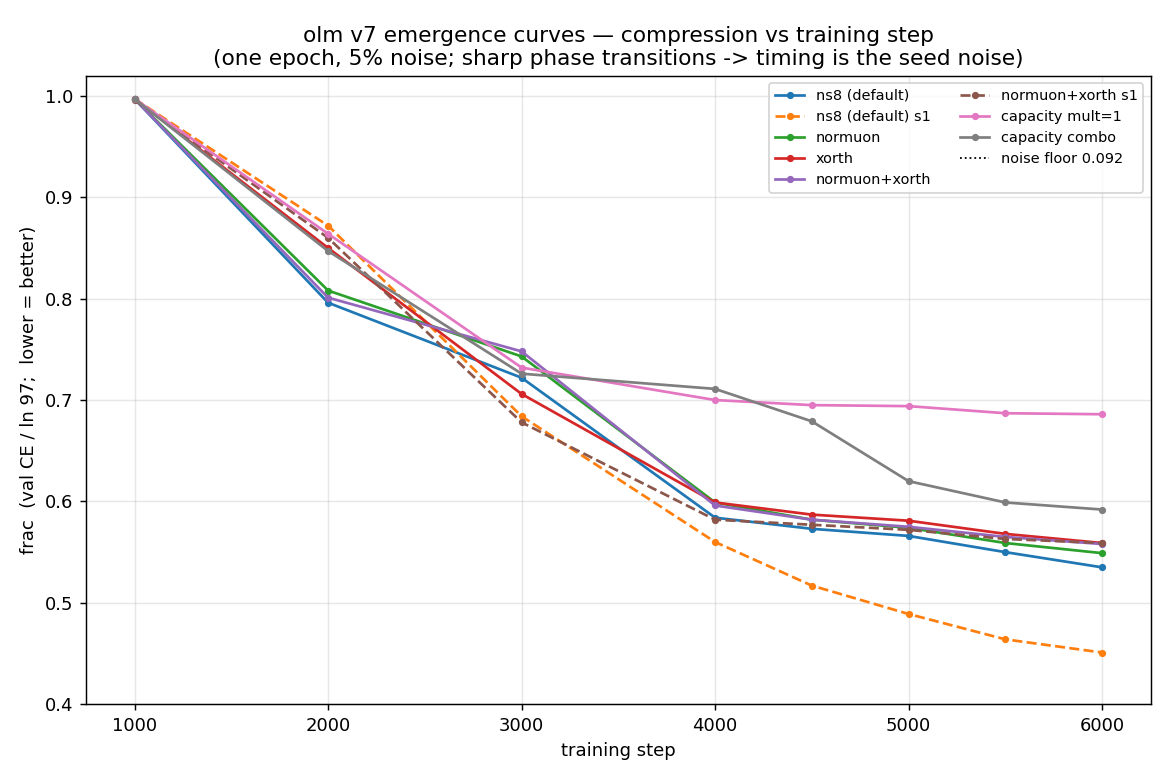
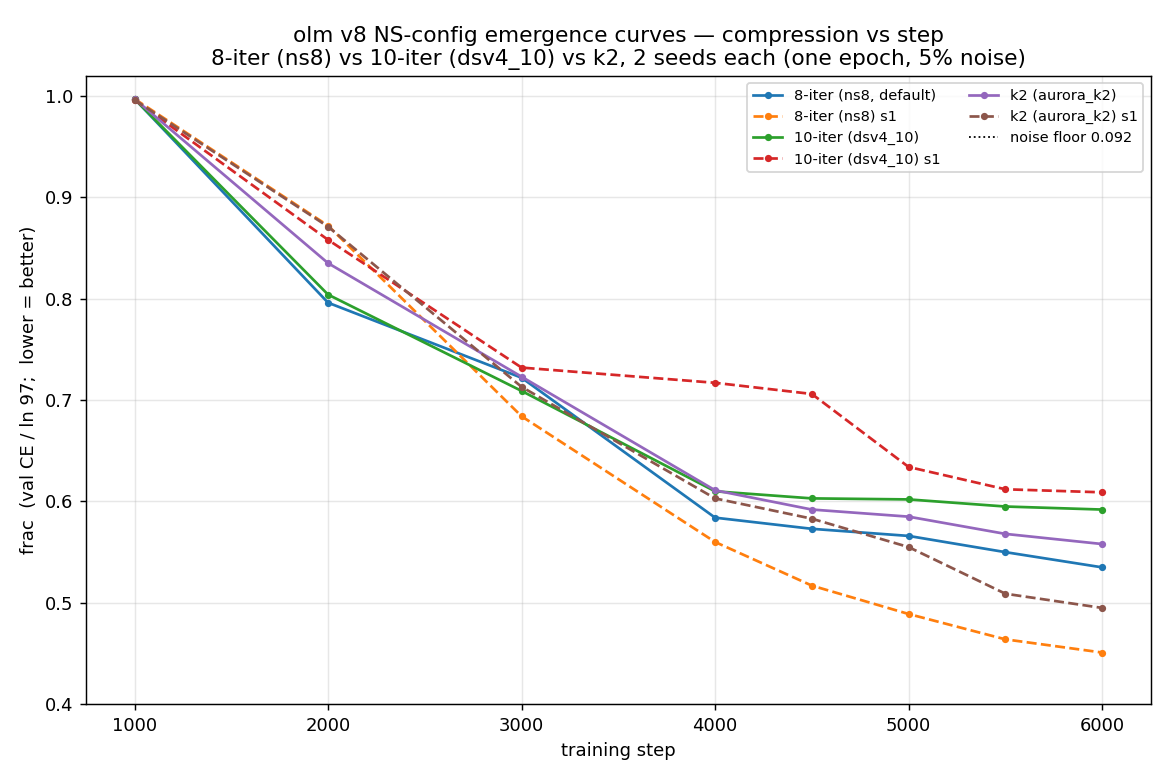
autoresearch: v8 NS-config verdict + updated plots - 8-iter aurora_k1 wins on quality AND compute; 10-iter and k2 both worse
Paired same-seed ranking clean both seeds: 8-iter < k2 < 10-iter (final .49/.53/.60 mean).
10-iter fails depth-2 composition (chance, high spec = collapse-in-disguise); k2 no help.
AUC seed-spread ~3x tighter than endpoint, same ranking. Cheapest config is best - no gain
from more NS iters or aurora passes at this scale.

diff --git a/.autoresearch/plot_emergence.py b/.autoresearch/plot_emergence.py
@@ -23,16 +23,14 @@ LNP = np.log(97)
 FLOOR = 0.0924                                                        # 5% noise floor (frac)
 
 STEPS = [1000, 2000, 3000, 4000, 4500, 5000, 5500, 6000]
-# label -> (config, seed, frac trajectory over STEPS). From v7 console (fixed-bias regime).
+# label -> (config, seed, frac trajectory over STEPS). v8 NS-config comparison (fixed bias).
 V7 = {
-    "ns8 (default)":      ("ns8", 0, [0.997, 0.796, 0.722, 0.584, 0.573, 0.566, 0.550, 0.535]),
-    "ns8 (default) s1":   ("ns8", 1, [0.997, 0.872, 0.684, 0.560, 0.517, 0.489, 0.464, 0.451]),
-    "normuon":            ("normuon", 0, [0.997, 0.808, 0.743, 0.599, 0.582, 0.574, 0.559, 0.549]),
-    "xorth":              ("xorth", 0, [0.997, 0.850, 0.706, 0.599, 0.587, 0.581, 0.568, 0.559]),
-    "normuon+xorth":      ("combo", 0, [0.997, 0.801, 0.748, 0.596, 0.582, 0.575, 0.565, 0.558]),
-    "normuon+xorth s1":   ("combo", 1, [0.996, 0.860, 0.678, 0.582, 0.577, 0.572, 0.563, 0.559]),
-    "capacity mult=1":    ("cap", 0, [0.997, 0.864, 0.732, 0.700, 0.695, 0.694, 0.687, 0.686]),
-    "capacity combo":     ("capcombo", 0, [0.997, 0.847, 0.726, 0.711, 0.679, 0.620, 0.599, 0.592]),
+    "8-iter (ns8, default)":  ("8it", 0, [0.997, 0.796, 0.722, 0.584, 0.573, 0.566, 0.550, 0.535]),
+    "8-iter (ns8) s1":        ("8it", 1, [0.997, 0.872, 0.684, 0.560, 0.517, 0.489, 0.464, 0.451]),
+    "10-iter (dsv4_10)":      ("10it", 0, [0.997, 0.804, 0.709, 0.610, 0.603, 0.602, 0.595, 0.592]),
+    "10-iter (dsv4_10) s1":   ("10it", 1, [0.996, 0.858, 0.732, 0.717, 0.706, 0.634, 0.612, 0.609]),
+    "k2 (aurora_k2)":         ("k2", 0, [0.997, 0.835, 0.723, 0.611, 0.592, 0.585, 0.568, 0.558]),
+    "k2 (aurora_k2) s1":      ("k2", 1, [0.996, 0.871, 0.713, 0.603, 0.583, 0.555, 0.509, 0.495]),
 }
 
 
@@ -93,14 +91,14 @@ def main():
         plt.plot(steps, frac, ls, marker="o", ms=3, label=name)
     plt.axhline(FLOOR, color="k", ls=":", lw=1, label=f"noise floor {FLOOR:.3f}")
     plt.xlabel("training step"); plt.ylabel("frac  (val CE / ln 97;  lower = better)")
-    plt.title("olm v7 emergence curves — compression vs training step\n(one epoch, 5% noise; sharp phase transitions -> timing is the seed noise)")
+    plt.title("olm v8 NS-config emergence curves — compression vs step\n8-iter (ns8) vs 10-iter (dsv4_10) vs k2, 2 seeds each (one epoch, 5% noise)")
     plt.legend(fontsize=8, ncol=2); plt.grid(alpha=0.3); plt.ylim(0.4, 1.02)
     plt.tight_layout(); plt.savefig(os.path.join(OUT, "emergence_curves.png"), dpi=130)
     plt.close()
 
     # ---- Fig 2: seed-noise story (paired configs with 2 seeds) ----
     plt.figure(figsize=(9, 6))
-    pairs = {"ns8 (default)": "tab:blue", "normuon+xorth": "tab:orange"}
+    pairs = {"8-iter": "tab:blue", "10-iter": "tab:red", "k2": "tab:green"}
     for base, col in pairs.items():
         for name, (arm, seed, steps, frac) in runs.items():
             if name.startswith(base):
@@ -109,7 +107,7 @@ def main():
                          label=f"{name} (final {frac[-1]:.3f}, AUC {auc(steps, frac):.3f})")
     plt.axhline(FLOOR, color="k", ls=":", lw=1)
     plt.xlabel("training step"); plt.ylabel("frac (lower = better)")
-    plt.title("Seed noise is TIMING, not destination\nsame config, 2 seeds: endpoints diverge, curves track until the tail")
+    plt.title("v8 NS-config, 2 seeds each: 8-iter (blue) < k2 (green) < 10-iter (red)\nsame-seed ranking is consistent despite the timing noise in the tail")
     plt.legend(fontsize=8); plt.grid(alpha=0.3); plt.ylim(0.4, 1.02)
     plt.tight_layout(); plt.savefig(os.path.join(OUT, "seed_noise.png"), dpi=130)
     plt.close()

diff --git a/.autoresearch/ideas_todo.md b/.autoresearch/ideas_todo.md
@@ -428,6 +428,17 @@ Task difficulty is TUNABLE (depth mix / max depth / p) if wave 1 lands too easy/
   need 10 -> right at THEIR scale. Optimal iter count is SCALE-DEPENDENT, not universal.
   "8 beats 10" is an OLM-small-scale result; don't extrapolate to big models. What transfers:
   iter count is a live knob olm CAN resolve (grok could not); at small scale go cheaper.
+- [olm v8 COMPLETE - 2 seeds each, NS-config verdict] final frac (mean) / AUC:
+  8-iter (ns8): 0.493 / 0.676 | k2: 0.527 / 0.701 | 10-iter (dsv4_10): 0.601 / 0.727.
+  PAIRED (same-seed) ranking CLEAN both seeds: 8-iter < k2 < 10-iter (s0: .535/.558/.592;
+  s1: .451/.495/.609). Neither more NS iters (10) nor more aurora passes (k2) beats the
+  cheap 8-iter aurora_k1 - both are WORSE. Compositional: 8-iter cracks depth-2 (s1 0.42)
+  and depth-3 (s1 0.18); 10-iter FAILS depth-2 (chance ~0.02, both seeds) with high spec
+  (0.5, collapse-in-disguise); k2 cracks depth-2 (s1 0.39) but not depth-3 (0.03).
+  AUC seed-spread ~3x tighter than final (8-iter 0.023 vs 0.084) - noise-robust ranking
+  = same. VERDICT: 8-iter aurora_k1 (= current default) wins on quality AND compute at this
+  scale. Coeff/aurora axis: no gain to be had by spending more here. Plots ->
+  .autoresearch/plots/emergence/ (v8).
   3 configs x 3 seeds (beat 0.084 seed spread, compare MEANS): aurora_k1 8-iter (ns_kj=6,
   current default) vs aurora_k1 10-iter (ns_kj=8, dsv4_10) vs aurora_k2 8-iter (k2).
   Q: does more NS fidelity (10it) or aurora k2 beat cheap ns8 on the validated proxy, or is